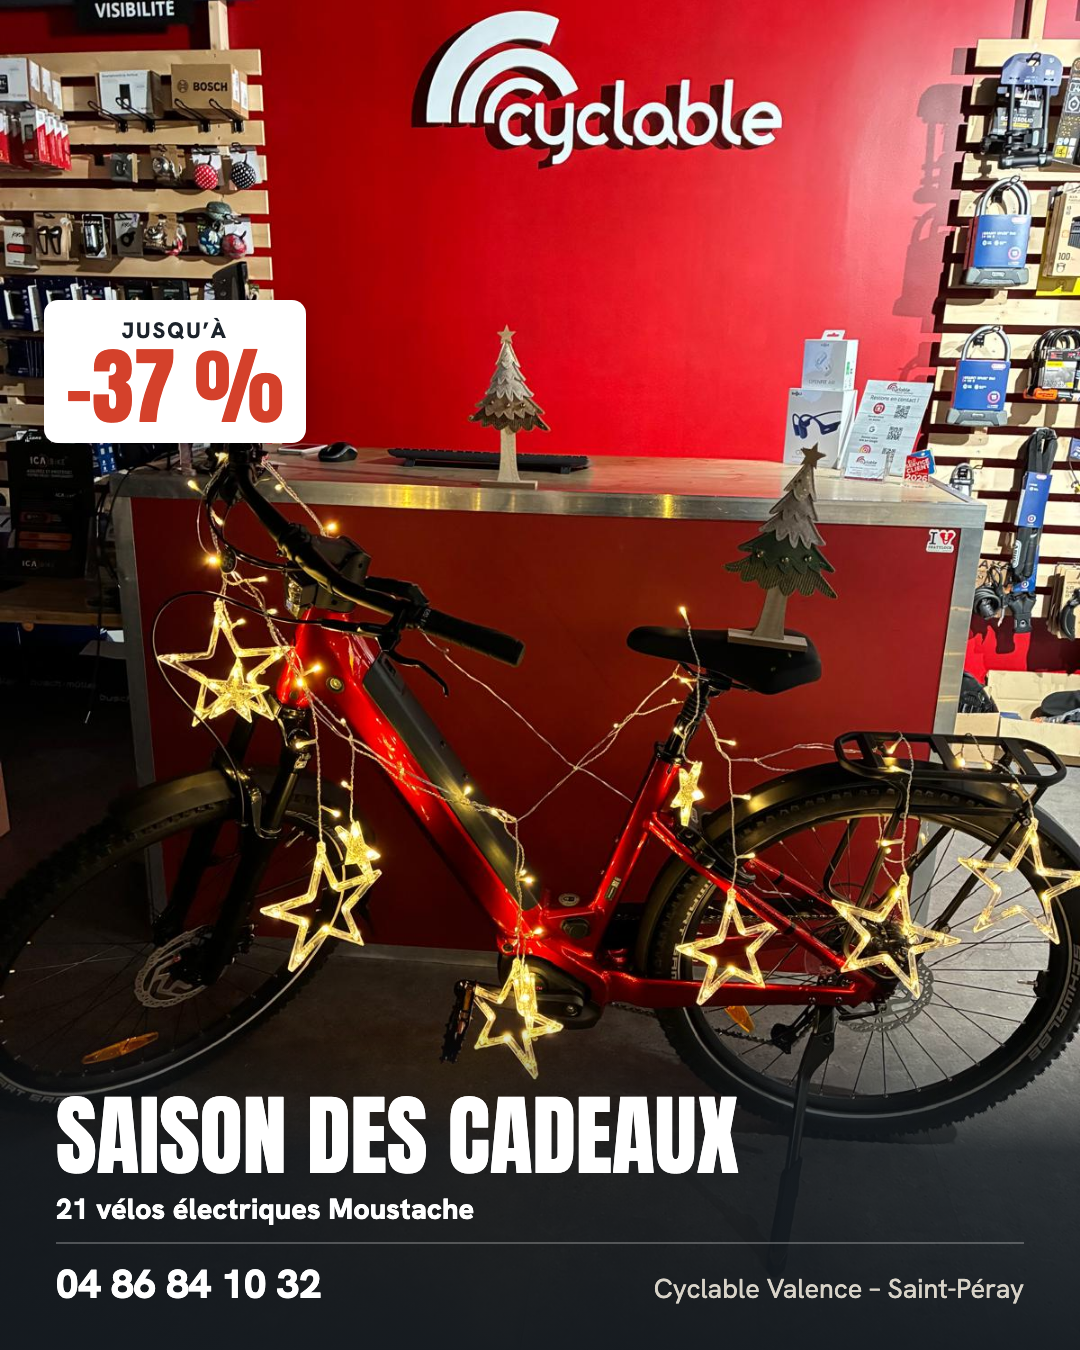
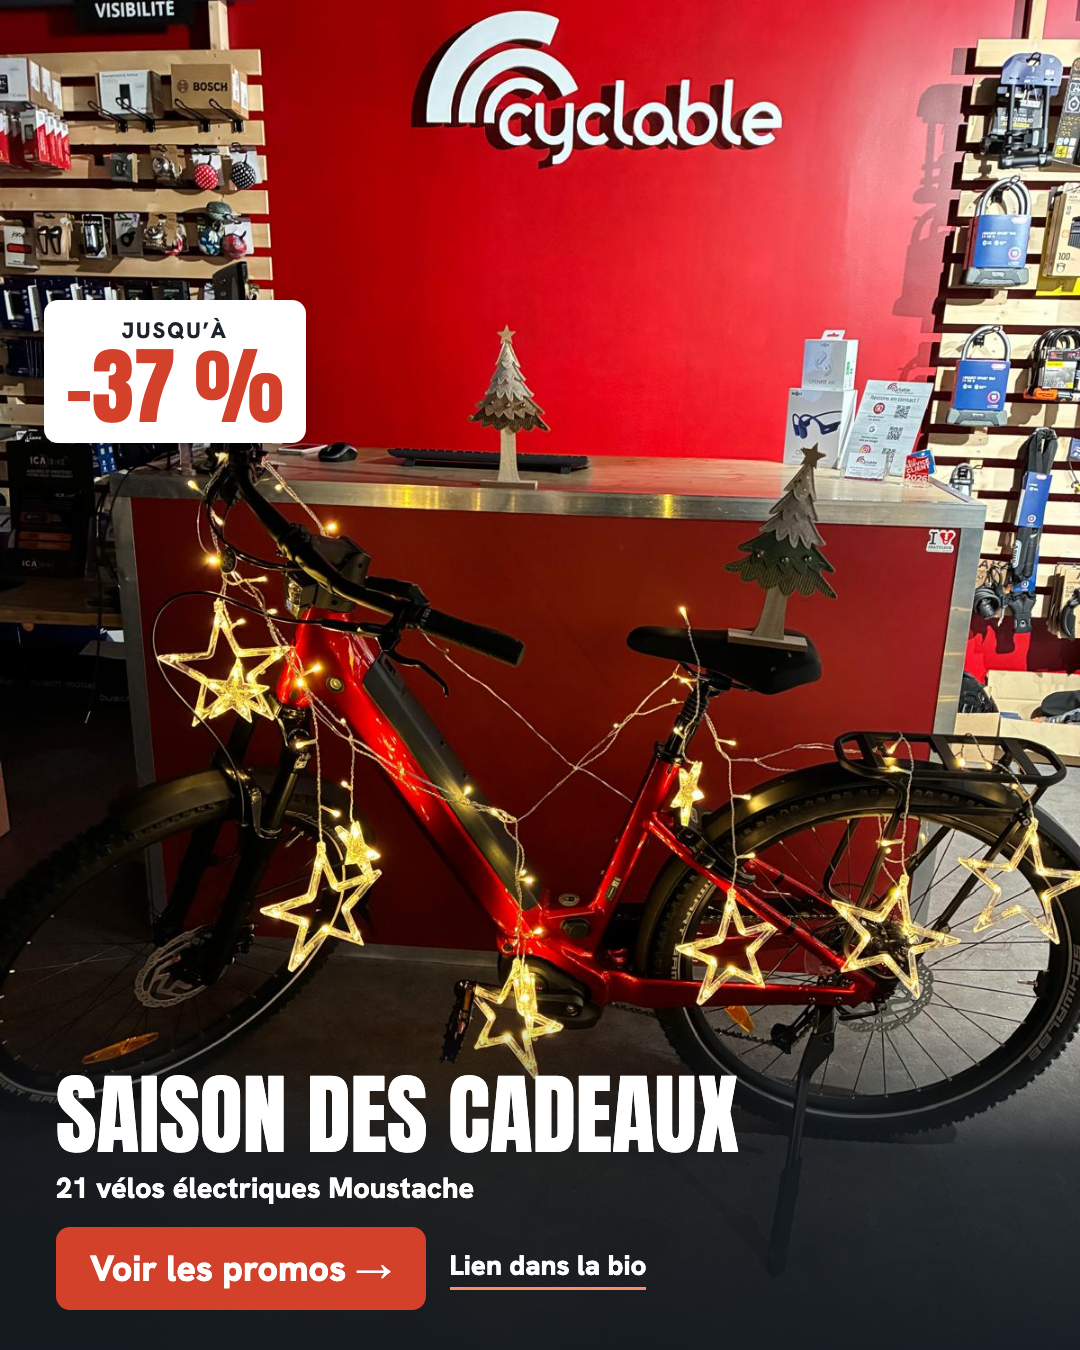
Instagram : post photo Noël, bouton « Voir les promos » à la place du téléphone

Changed region(s): [[0.0306, 0.7778, 0.7028, 0.9956], [0.4278, 0.9333, 0.7944, 0.9644], [0.825, 0.9333, 0.9472, 0.9644]]

diff --git a/ressources/instagram/post-photo-noel.html b/ressources/instagram/post-photo-noel.html
@@ -19,6 +19,9 @@
   .sous b{color:#fff}
   .tel{margin-top:14px;padding-top:14px;border-top:2px solid rgba(255,255,255,.25);display:flex;justify-content:space-between;align-items:baseline;font-size:27px;color:#D8D3C8}
   .tel b{color:#fff;font-size:40px;font-weight:800}
+  .cta{margin-top:20px;display:flex;align-items:center;gap:24px}
+  .bouton{background:#D4412B;color:#fff;font-weight:800;font-size:36px;padding:18px 34px;border-radius:14px}
+  .bio{font-size:28px;font-weight:800;color:#fff;border-bottom:3px solid #FF8A72;padding-bottom:4px}
 </style>
 </head>
 <body>
@@ -28,7 +31,7 @@
   <div class="texte">
     <h1>Saison des cadeaux</h1>
     <p class="sous"><b>21 vélos électriques Moustache</b></p>
-    <div class="tel"><b>04 86 84 10 32</b><span>Cyclable Valence – Saint-Péray</span></div>
+    <div class="cta"><span class="bouton">Voir les promos&nbsp;→</span><span class="bio">Lien dans la bio</span></div>
   </div>
 </body>
 </html>
